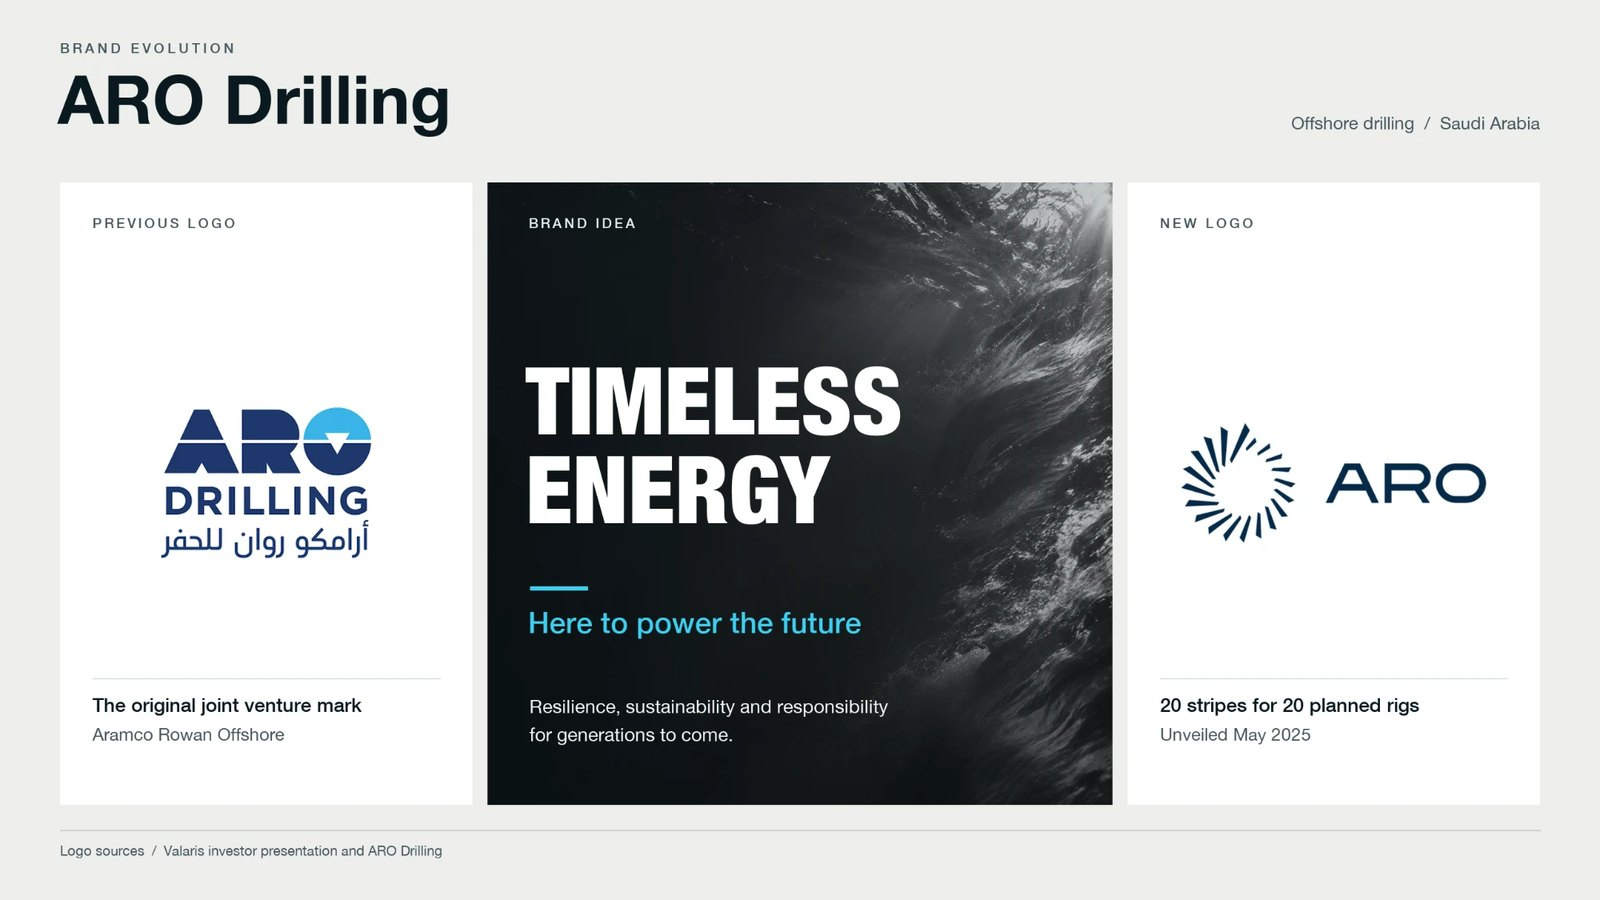
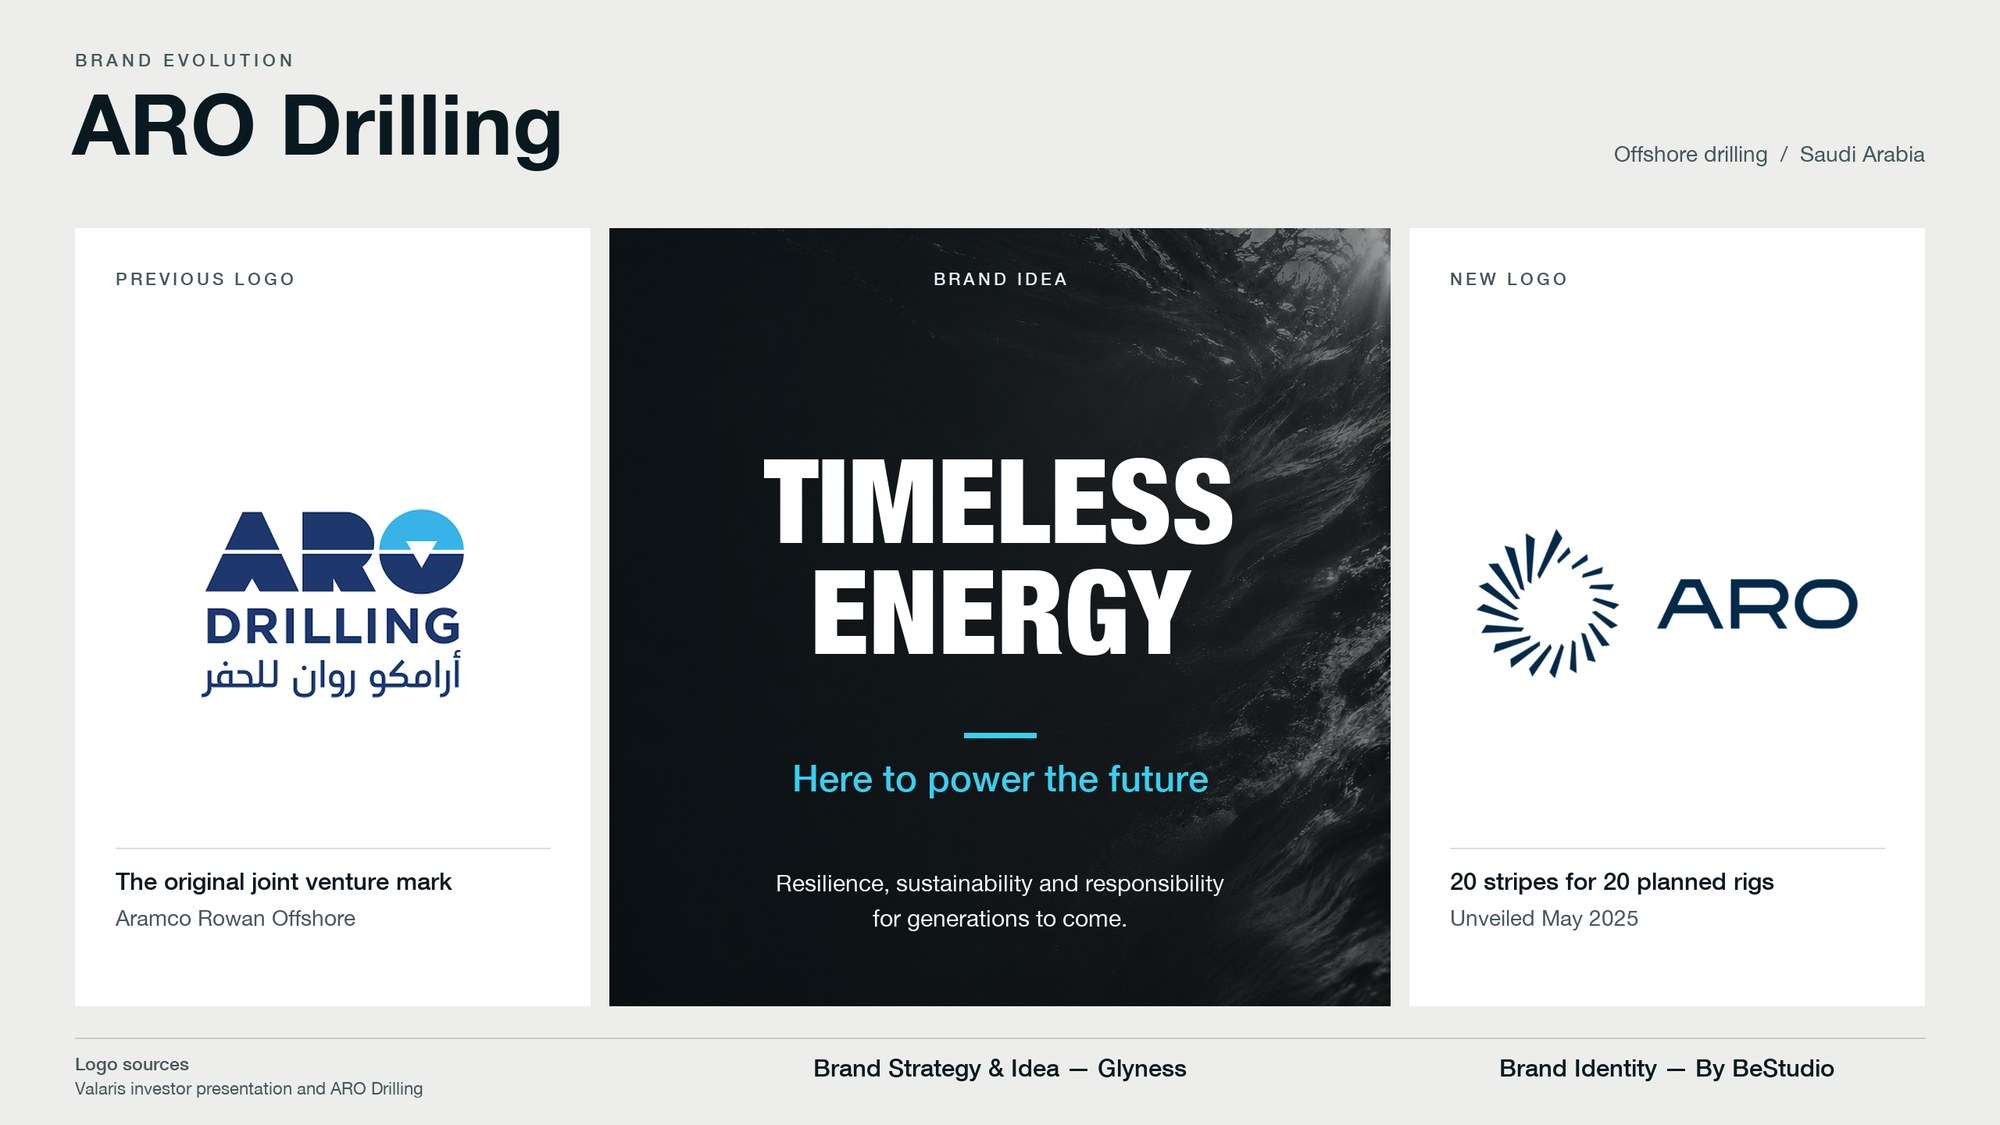
ARO case: updated brand evolution board plus the Timeless Energy slide

diff --git a/index.html b/index.html
@@ -699,7 +699,8 @@ const C = {
                   "اعتمد أصحاب المصلحة الاستراتيجية فورًا، ونالت إعجاب الرئيس التنفيذي لأرو. ثم حوّلها فريق التصميم إلى الهوية الجديدة التي فازت لاحقًا بجائزة."),
       links: [{ href: "https://lnkd.in/p/d5-evrBp", t: L("See the award announcement", "إعلان الجائزة") }],
       media: [
-        { src: "aro-evolution.jpg", w: 1600, h: 900, cap: L("Brand evolution: the previous mark, the brand idea and the new identity", "تطوّر العلامة: الشعار السابق، وفكرة العلامة، والهوية الجديدة") }
+        { src: "aro-evolution.jpg", w: 2000, h: 1125, cap: L("Brand evolution: the previous mark, the brand idea and the new identity", "تطوّر العلامة: الشعار السابق، وفكرة العلامة، والهوية الجديدة") },
+        { src: "aro-timeless.jpg", w: 1600, h: 900, cap: L("The brand idea: Timeless Energy. Here to power the future.", "فكرة العلامة: «طاقة لا تنقضي». هنا لنمدّ المستقبل بالطاقة.") }
       ]
     },
     {
